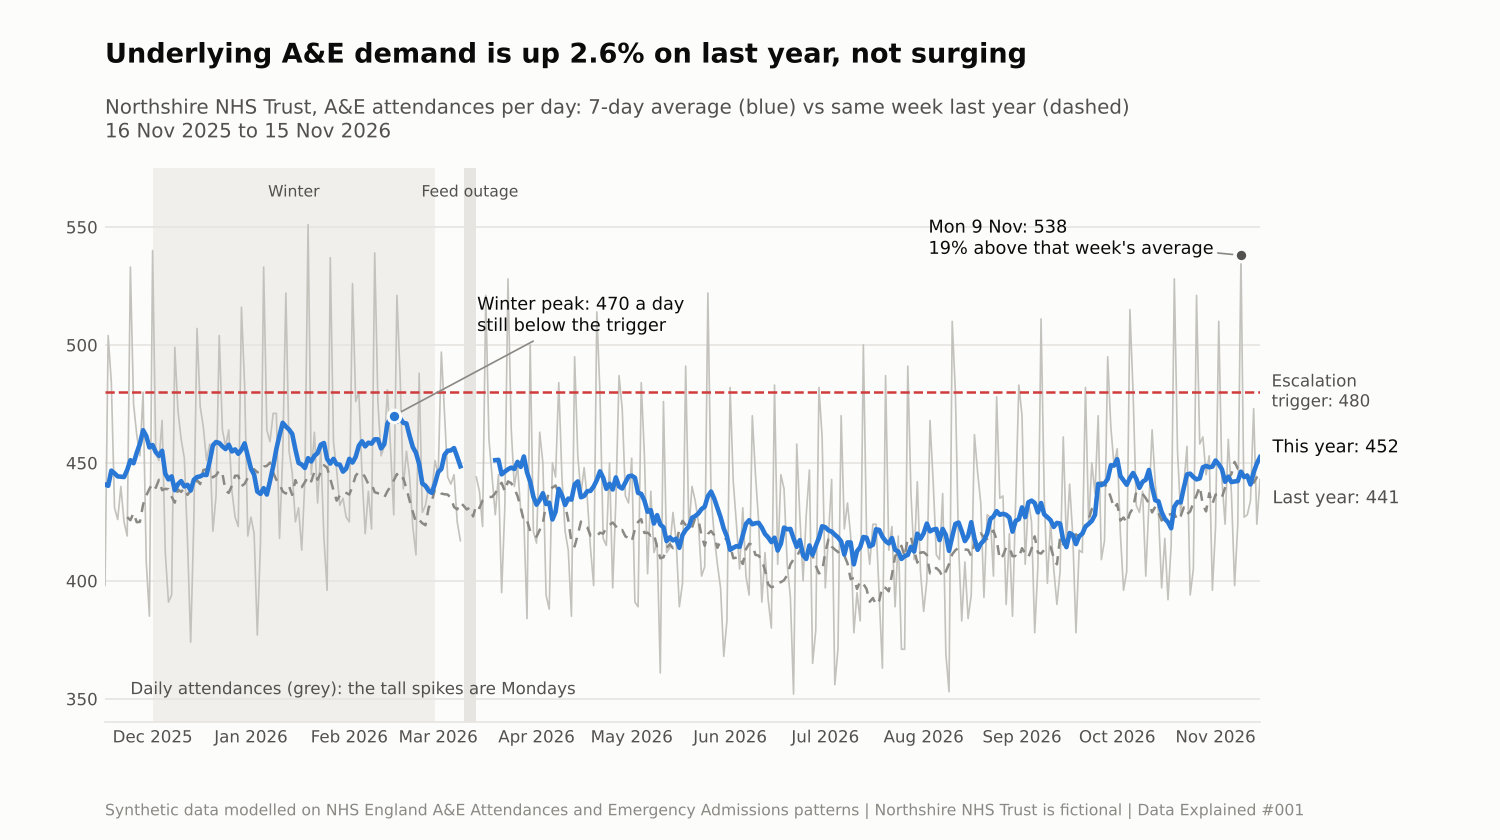
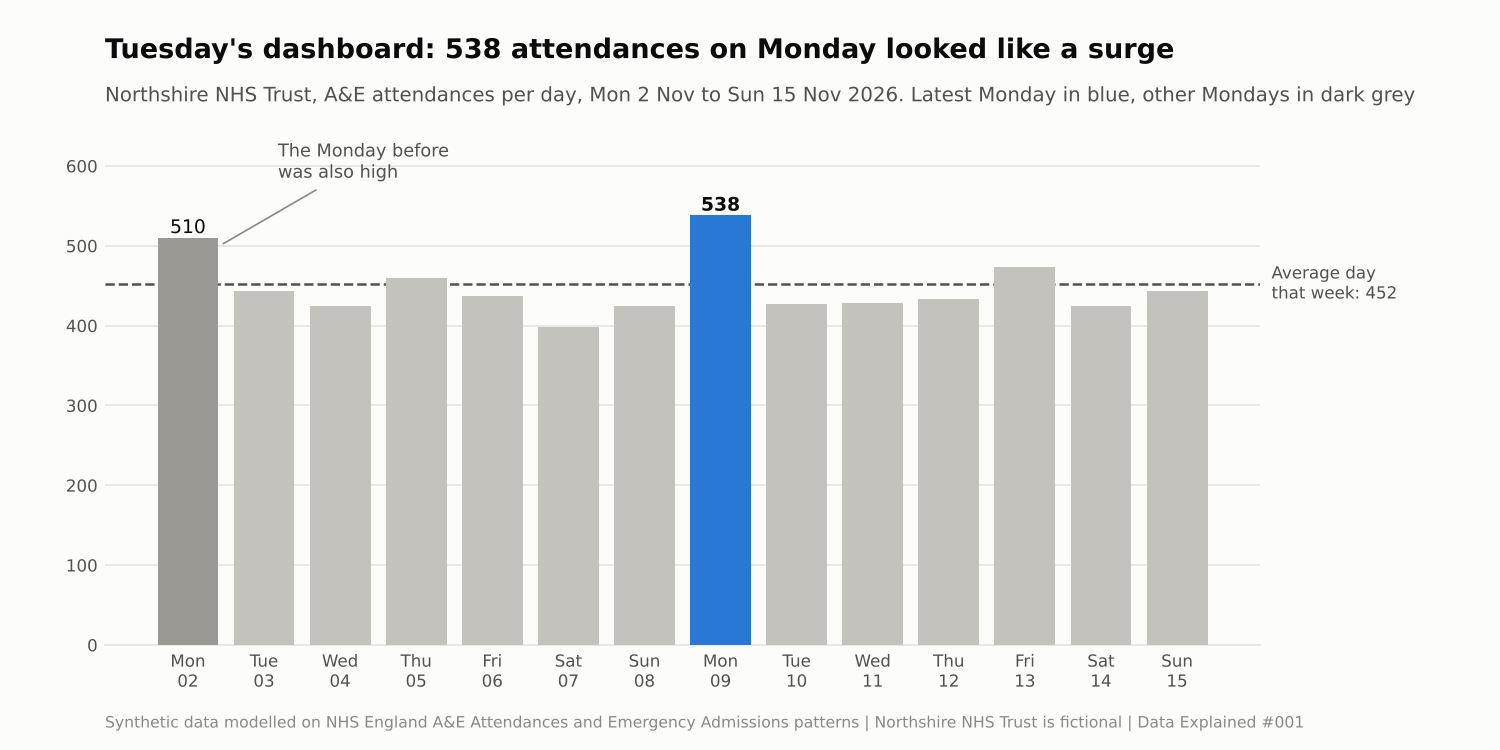
Case file #001: three visuals (context, explainer, results)
Claude-Session: https://claude.ai/code/session_01EitRb1hrTAXPCkfPj9Ty5z

diff --git a/posts/2026-11-17-ae-mondays-rolling-average/analysis.py b/posts/2026-11-17-ae-mondays-rolling-average/analysis.py
@@ -159,7 +159,37 @@ print(f"\n== Monday is the busiest weekday in {monday_top} of {grid.shape[1]} mo
 FOOT = ("Synthetic data modelled on NHS England A&E Attendances and Emergency Admissions "
         "patterns | Northshire NHS Trust is fictional | Data Explained #001")
 
-# ---- chart_1: the last 12 months, signal vs noise vs last year vs the trigger
+# ---- chart_1 (context): what the operations director saw on the dashboard
+mon = pd.Timestamp(latest_monday["day"].iloc[0])
+last14 = rolling[rolling["day"] >= rolling["day"].max() - pd.Timedelta(days=13)].copy()
+week_avg = last14.loc[last14["day"] >= pd.Timestamp("2026-11-09"), "attendances"].mean()
+mondays = last14[last14["day"].dt.dayofweek == 0]
+print("\n== Last 14 days (dashboard view) ==")
+print(last14[["day", "attendances"]].assign(day=last14["day"].dt.strftime("%a %d %b"))
+      .to_string(index=False))
+
+fig, ax = vs.figure(height=5.0)
+colors = [vs.SERIES[0] if d == mon else (vs.MUTED if d.dayofweek else "#9a9993")
+          for d in last14["day"]]
+ax.bar(last14["day"], last14["attendances"], width=0.8, color=colors, zorder=3)
+vs.ref_line(ax, round(week_avg), f"Average day\nthat week: {week_avg:.0f}")
+for _, row in mondays.iterrows():
+    ax.text(row["day"], row["attendances"] + 6, f"{row['attendances']}", ha="center",
+            fontsize=9, color=vs.INK, fontweight="bold" if row["day"] == mon else "normal")
+ax.annotate("The Monday before\nwas also high",
+            (mondays["day"].iloc[0] + pd.Timedelta(hours=10), mondays["attendances"].iloc[0] - 10),
+            xytext=(28, 40), textcoords="offset points", ha="left", va="center",
+            fontsize=8.5, color=vs.INK_2,
+            arrowprops=dict(arrowstyle="-", color=vs.INK_3, lw=0.8))
+ax.set_xticks(last14["day"], [d.strftime("%a\n%d") for d in last14["day"]])
+ax.set_ylim(0, 620)
+vs.headline(fig, "Tuesday's dashboard: 538 attendances on Monday looked like a surge",
+            "Northshire NHS Trust, A&E attendances per day, Mon 2 Nov to Sun 15 Nov 2026. "
+            "Latest Monday in blue, other Mondays in dark grey")
+vs.footer(fig, FOOT)
+vs.save(fig, HERE / "chart_1.png")
+
+# ---- chart_3 (results): the last 12 months, signal vs noise vs last year vs the trigger
 r = rolling.set_index("day")
 cal = r.reindex(pd.date_range(r.index.min(), r.index.max()))
 cal.loc[cal["days_in_window"] < 7, "avg7_range"] = np.nan        # hide partial windows
@@ -198,9 +228,9 @@ vs.headline(fig, "Underlying A&E demand is up 2.6% on last year, not surging",
             "Northshire NHS Trust, A&E attendances per day: 7-day average (blue) vs same "
             "week last year (dashed)\n16 Nov 2025 to 15 Nov 2026")
 vs.footer(fig, FOOT)
-vs.save(fig, HERE / "chart_1.png")
+vs.save(fig, HERE / "chart_3.png")
 
-# ---- chart_2: weekday x month heatmap, % vs that month's daily average
+# ---- chart_2 (explainer): weekday x month heatmap, % vs that month's daily average
 labels = [d.strftime("%b\n%y") if d.month in (1, 11) or i == 0 else d.strftime("%b")
           for i, d in enumerate(pd.to_datetime(grid.columns))]
 fig, ax = vs.figure(height=4.4)
@@ -222,4 +252,4 @@ vs.headline(fig, f"Mondays are the busiest day in {monday_top} of {grid.shape[1]
             "daily average. Nov 2024 to Nov 2026")
 vs.footer(fig, FOOT)
 vs.save(fig, HERE / "chart_2.png")
-print("\nSaved chart_1.png, chart_2.png")
+print("\nSaved chart_1.png, chart_2.png, chart_3.png")

diff --git a/posts/2026-11-17-ae-mondays-rolling-average/README.md b/posts/2026-11-17-ae-mondays-rolling-average/README.md
@@ -4,8 +4,6 @@
 
 > **TL;DR:** Monday's attendance count looked like a surge. It wasn't. Mondays always run about 14% above the weekly average. Once we smooth out the day-of-week pattern with a 7-day rolling average, underlying demand is up **2.6% on the same week last year**. That's steady growth, not a spike.
 
-![Annotated line chart: the 7-day average of A&E attendances is up 2.6% on the same week last year and peaked at 470 a day in winter, below the 480 escalation trigger](chart_1.png)
-
 ---
 
 ## 1. The problem
@@ -13,6 +11,8 @@
 The operations director at (fictional) Northshire NHS Trust opens Tuesday's dashboard and sees **538 A&E attendances** on Monday. That's well above the ~450 they think of as "normal". They ask:
 
 *"Is demand surging? Do we need to open the escalation ward this week?"*
+
+![Bar chart of the last 14 days: Monday 9 November at 538 attendances stands well above the week's average of 452, and the Monday before was also high at 510](chart_1.png)
 
 That's an expensive decision. Staffing an extra ward means agency nurses, cancelled electives and a lot of goodwill spent. The trust's escalation plan says to open it when the **7-day average goes above 480 attendances a day**. So what they really need to know is whether demand has actually changed, or whether they are looking at a normal Monday.
 
@@ -38,6 +38,10 @@ ORDER BY isodow(day);
 
 The `avg(avg(...)) OVER ()` is a window function sitting on top of an aggregate. It gives the "average of the weekday averages" without a second query.
 
+Splitting the same calculation by month shows the Monday effect is no one-off. It appears in every month, summer and winter:
+
+![Heatmap of weekday by month: Monday is 11% to 19% above the monthly average in all 25 months, Saturday and Sunday are consistently below](chart_2.png)
+
 **b) Smooth out the weekly cycle with a 7-day rolling average.** A 7-day window always contains exactly one of each weekday, so the Monday spike cancels out.
 
 ```sql
@@ -58,7 +62,7 @@ WHERE this.days_in_window = 7 AND last.days_in_window = 7
 
 ## 4. What we found
 
-![Heatmap of weekday by month: Monday is 11% to 19% above the monthly average in all 25 months, Saturday and Sunday are consistently below](chart_2.png)
+![Annotated line chart for the last 12 months: the 7-day average of A&E attendances is up 2.6% on the same week last year and peaked at 470 a day in winter, below the 480 escalation trigger](chart_3.png)
 
 | Weekday | Avg attendances | vs weekly average |
 |---|---:|---:|
